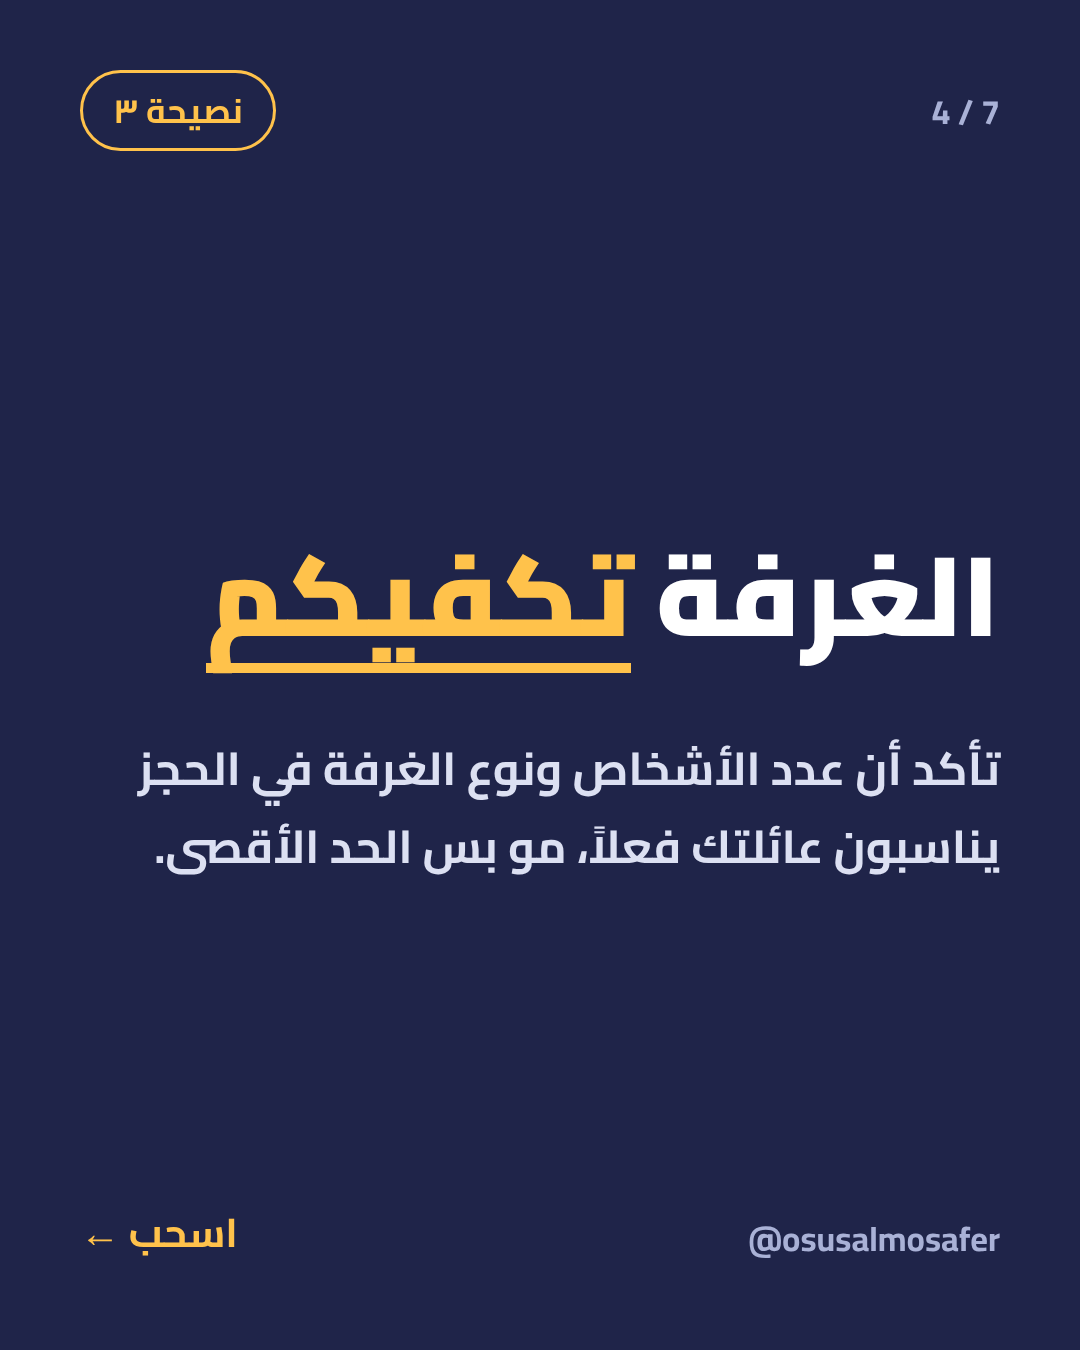
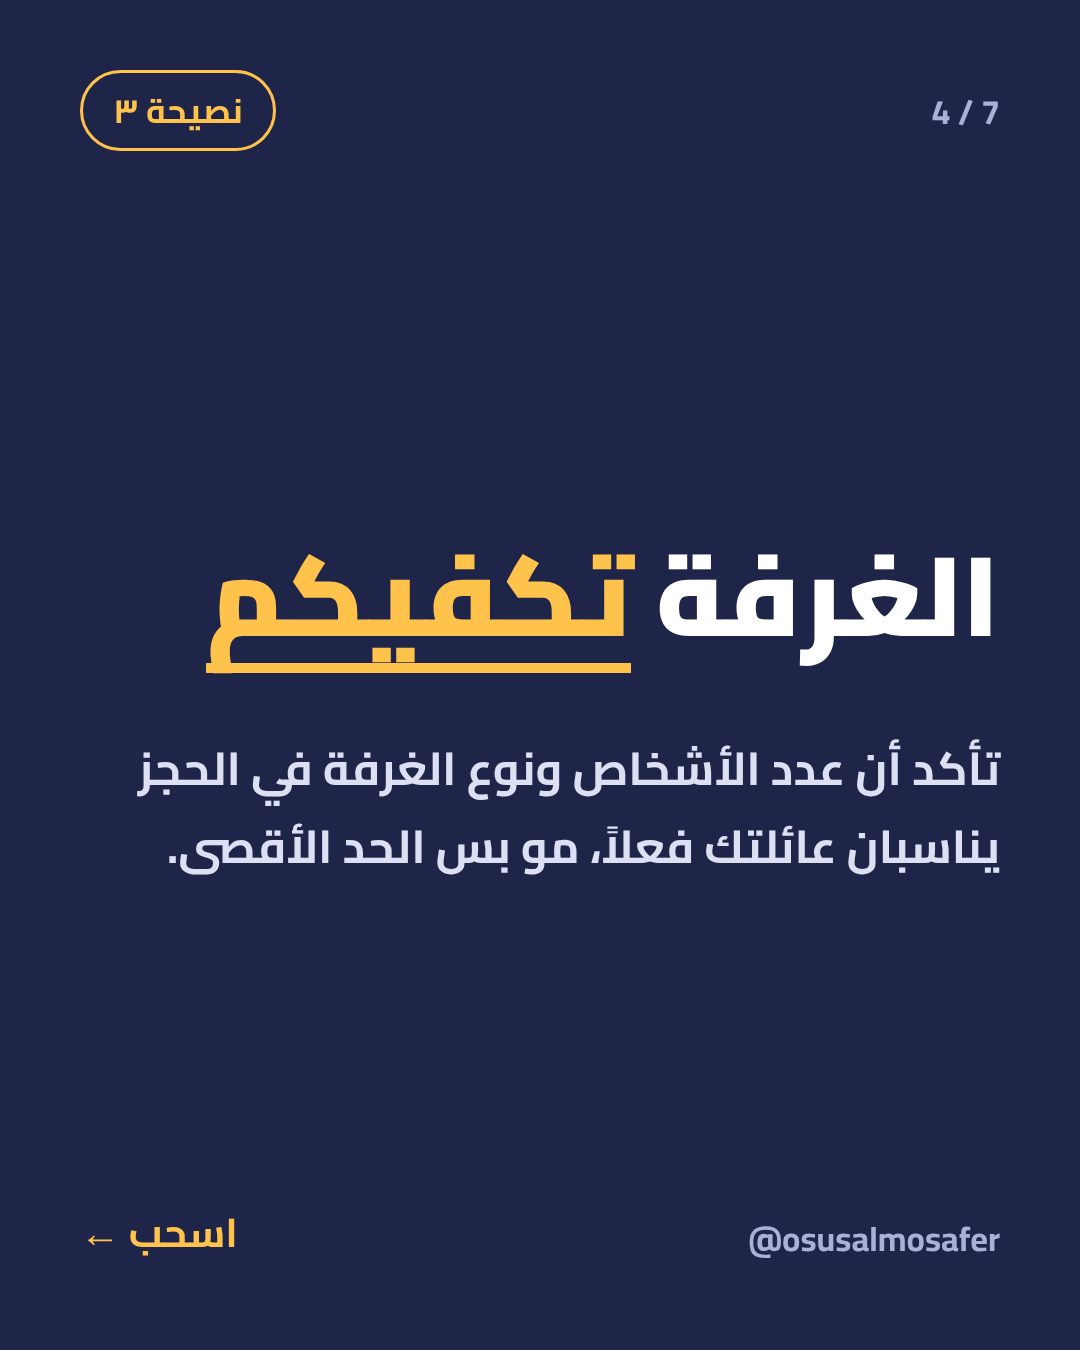
Carousel 2: ask walking minutes and direction from Haram; grammar fix
Claude-Session: https://claude.ai/code/session_018nkkgV5L9WVzQYR2S6kDaX

Changed region(s): [[0.1528, 0.5911, 0.825, 0.6533]]

diff --git a/carousel/carousel3.html b/carousel/carousel3.html
@@ -25,13 +25,13 @@ u{display:inline-block;white-space:nowrap;line-height:1.25;color:var(--ac);text-
 <div class="main"><h1>تحجز فندق بمكة؟ شيّك <u>٥ أشياء</u></h1><p class="sub">قبل لا تدفع ريال واحد</p></div>
 <div class="brand">@osusalmosafer</div><div class="cue">اسحب ←</div></section><section class="slide card " id="s2">
 <div class="counter">2 / 7</div><div class="pill">نصيحة ١</div>
-<div class="main"><h1>المسافة <u>الحقيقية</u></h1><p class="body">كلمة «قريب» مطاطة. اسأل كم دقيقة مشي لأقرب باب للحرم، وبدون زحام.</p></div>
+<div class="main"><h1>المسافة <u>الحقيقية</u></h1><p class="body">كلمة «قريب» مطاطة. اسأل: كم دقيقة مشي للحرم؟ وفي أي اتجاه منه؟</p></div>
 <div class="brand">@osusalmosafer</div><div class="cue">اسحب ←</div></section><section class="slide card " id="s3">
 <div class="counter">3 / 7</div><div class="pill">نصيحة ٢</div>
 <div class="main"><h1>طريق <u>المشي</u></h1><p class="body">تأكد أنه مريح لكبار السن والأطفال، وما فيه طلعات صعبة.</p></div>
 <div class="brand">@osusalmosafer</div><div class="cue">اسحب ←</div></section><section class="slide card " id="s4">
 <div class="counter">4 / 7</div><div class="pill">نصيحة ٣</div>
-<div class="main"><h1>الغرفة <u>تكفيكم</u></h1><p class="body">تأكد أن عدد الأشخاص ونوع الغرفة في الحجز يناسبون عائلتك فعلاً، مو بس الحد الأقصى.</p></div>
+<div class="main"><h1>الغرفة <u>تكفيكم</u></h1><p class="body">تأكد أن عدد الأشخاص ونوع الغرفة في الحجز يناسبان عائلتك فعلاً، مو بس الحد الأقصى.</p></div>
 <div class="brand">@osusalmosafer</div><div class="cue">اسحب ←</div></section><section class="slide card " id="s5">
 <div class="counter">5 / 7</div><div class="pill">نصيحة ٤</div>
 <div class="main"><h1>الخدمات <u>المشمولة</u></h1><p class="body">اسأل وش يشمل السعر: الإفطار، والمواصلات إن وفّرها الفندق. عشان ما تدفع على شي تحسبه مجاني.</p></div>

diff --git a/carousel/gen3.py b/carousel/gen3.py
@@ -1,8 +1,8 @@
 slides = [
  dict(kind="cover", label="حجز مكة", h="تحجز فندق بمكة؟ شيّك <u>٥ أشياء</u>", sub="قبل لا تدفع ريال واحد"),
- dict(kind="card", label="نصيحة ١", h="المسافة <u>الحقيقية</u>", body="كلمة «قريب» مطاطة. اسأل كم دقيقة مشي لأقرب باب للحرم، وبدون زحام."),
+ dict(kind="card", label="نصيحة ١", h="المسافة <u>الحقيقية</u>", body="كلمة «قريب» مطاطة. اسأل: كم دقيقة مشي للحرم؟ وفي أي اتجاه منه؟"),
  dict(kind="card", label="نصيحة ٢", h="طريق <u>المشي</u>", body="تأكد أنه مريح لكبار السن والأطفال، وما فيه طلعات صعبة."),
- dict(kind="card", label="نصيحة ٣", h="الغرفة <u>تكفيكم</u>", body="تأكد أن عدد الأشخاص ونوع الغرفة في الحجز يناسبون عائلتك فعلاً، مو بس الحد الأقصى."),
+ dict(kind="card", label="نصيحة ٣", h="الغرفة <u>تكفيكم</u>", body="تأكد أن عدد الأشخاص ونوع الغرفة في الحجز يناسبان عائلتك فعلاً، مو بس الحد الأقصى."),
  dict(kind="card", label="نصيحة ٤", h="الخدمات <u>المشمولة</u>", body="اسأل وش يشمل السعر: الإفطار، والمواصلات إن وفّرها الفندق. عشان ما تدفع على شي تحسبه مجاني."),
  dict(kind="card", label="نصيحة ٥", h="التقييمات <u>الأخيرة</u>", body="اقرأ تقييمات آخر ٣ أشهر مو الأقدم، خصوصاً من ناس سافروا في نفس موسمك."),
  dict(kind="last", label="الخلاصة", h="احفظها قبل <u>حجزك</u> الجاي", body="أرسلها لمن يجهز لرحلة مكة. وإذا تبي نساعدك في اختيار الفندق، راسلنا."),
